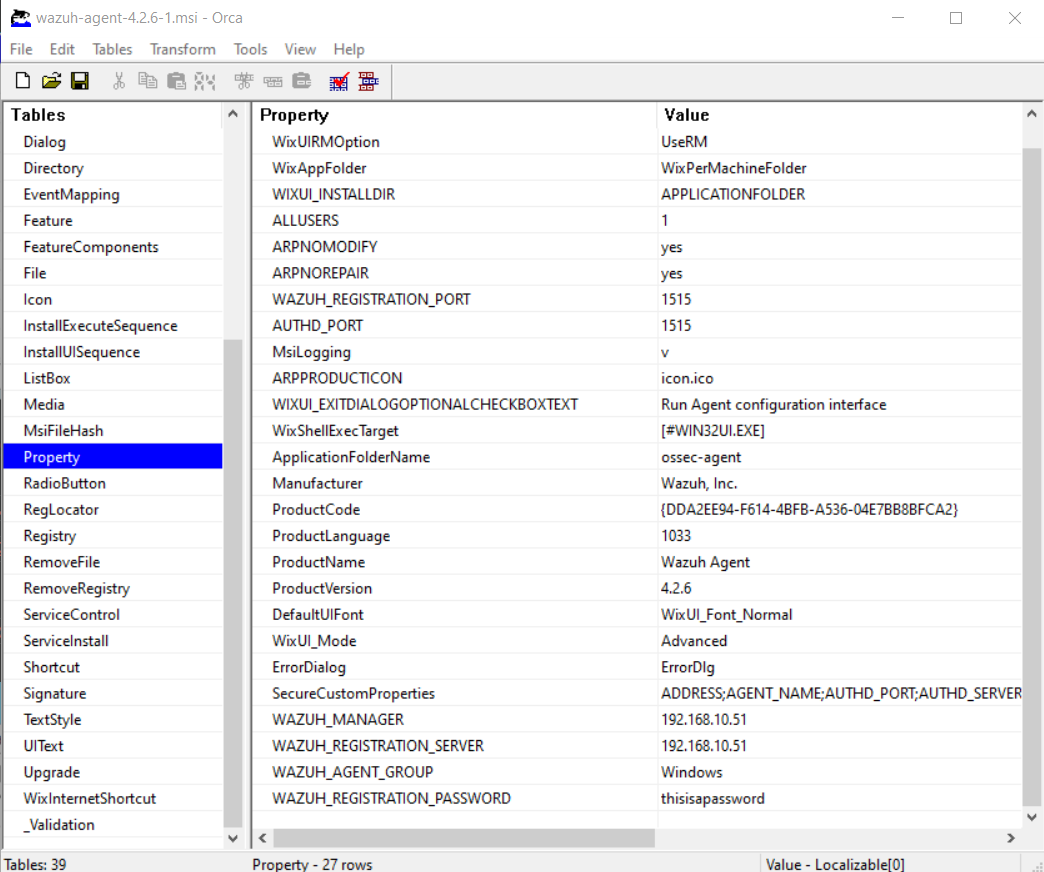
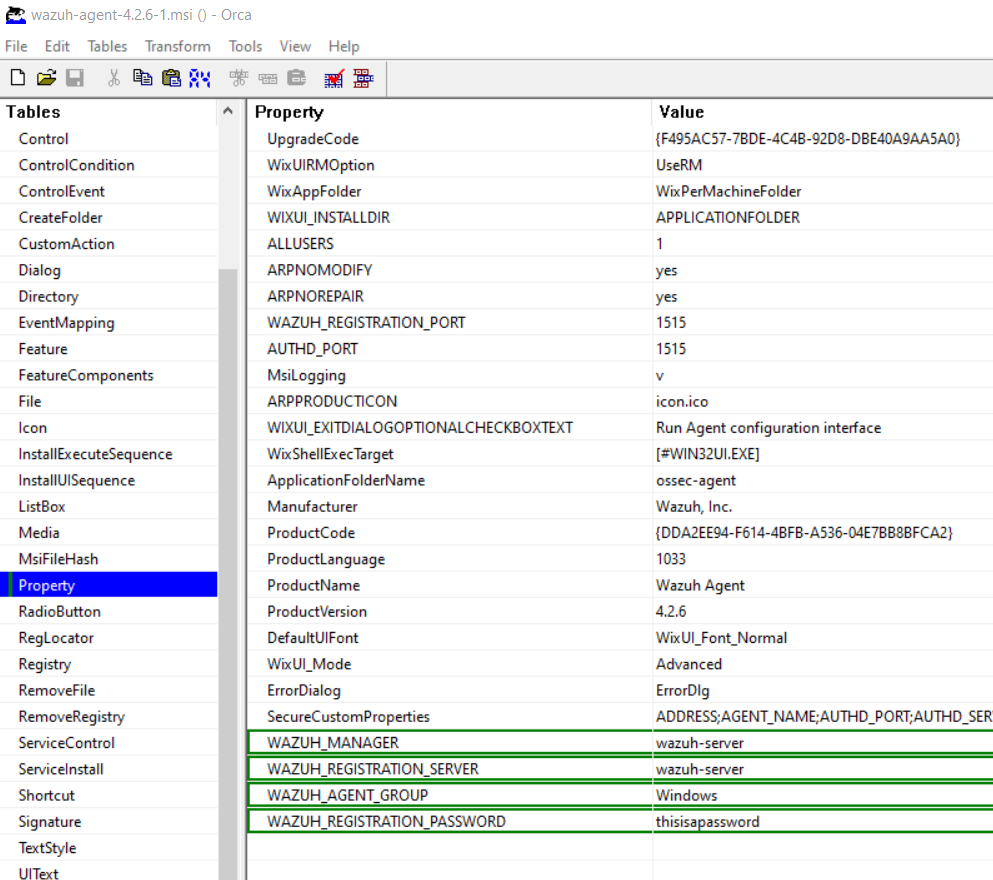
add agent manual install draft

Changed region(s): [[0.0, 0.0, 1.0, 1.0], [0.9678, 0.9908, 0.999, 1.0]]

diff --git a/installation-guide-OSS/content/agent.tex b/installation-guide-OSS/content/agent.tex
@@ -1,11 +1,11 @@
 \chapter{Wazuh Agent Installation}
 
-\section{Manuelle Installation des Windows Agents}
-\section{Installation des Windows Agents via GPO}
+\section{Installation via GPO}
 
 %1. Download Wazuh Agent
 %https://documentation.wazuh.com/current/installation-guide/packages-list.html#windows
-%
+%64bit if only 64bit system else 32bit
+
 %2.5 Download Sysmon
 %https://docs.microsoft.com/en-us/sysinternals/downloads/sysmon
 %
@@ -23,8 +23,8 @@
 
 %7. Go to Property and add key value pairs: [Orca-Edit]
 
-%WAZUH_MANAGER: <IP>
-%WAZUH_REGISTRATION_SERVER: <IP>
+%WAZUH_MANAGER: <Hostname>
+%WAZUH_REGISTRATION_SERVER: <Hostname>
 %WAZUH_AGENT_GROUP: Windows
 %WAZUH_REGISTRATION_PASSWORD: <Set Password>
 
@@ -41,3 +41,22 @@
 %Under modifications select add and select .mst file [new-software-install-advanced-mod.png]
 
 %13 GPO is now ready. PC install it on restart
+
+
+\section{Manuelle Installation}
+
+Windows Agent kann mittels Powershell installiert werden.
+
+
+1. Wazuh Webseite öffnen und unter Wazuh > Agent auf Deploy new Agent drücken. [Deploy-new-agent]
+
+2. Daten auswählen [Deploy-new-agent-2] und PS Kopieren
+
+3. Powershell auf Computer als Admin starten
+
+4 Ausführen
+\begin{lstlisting}
+    Invoke-WebRequest -Uri https://packages.wazuh.com/4.x/windows/wazuh-agent-4.2.6-1.msi -OutFile wazuh-agent-4.2.6.msi; ./wazuh-agent-4.2.6.msi /q WAZUH_MANAGER='wazuh-server' WAZUH_REGISTRATION_SERVER='wazuh-server' WAZUH_REGISTRATION_PASSWORD=<Password> WAZUH_AGENT_GROUP='Windows' 
+\end{lstlisting}
+
+5. Done
